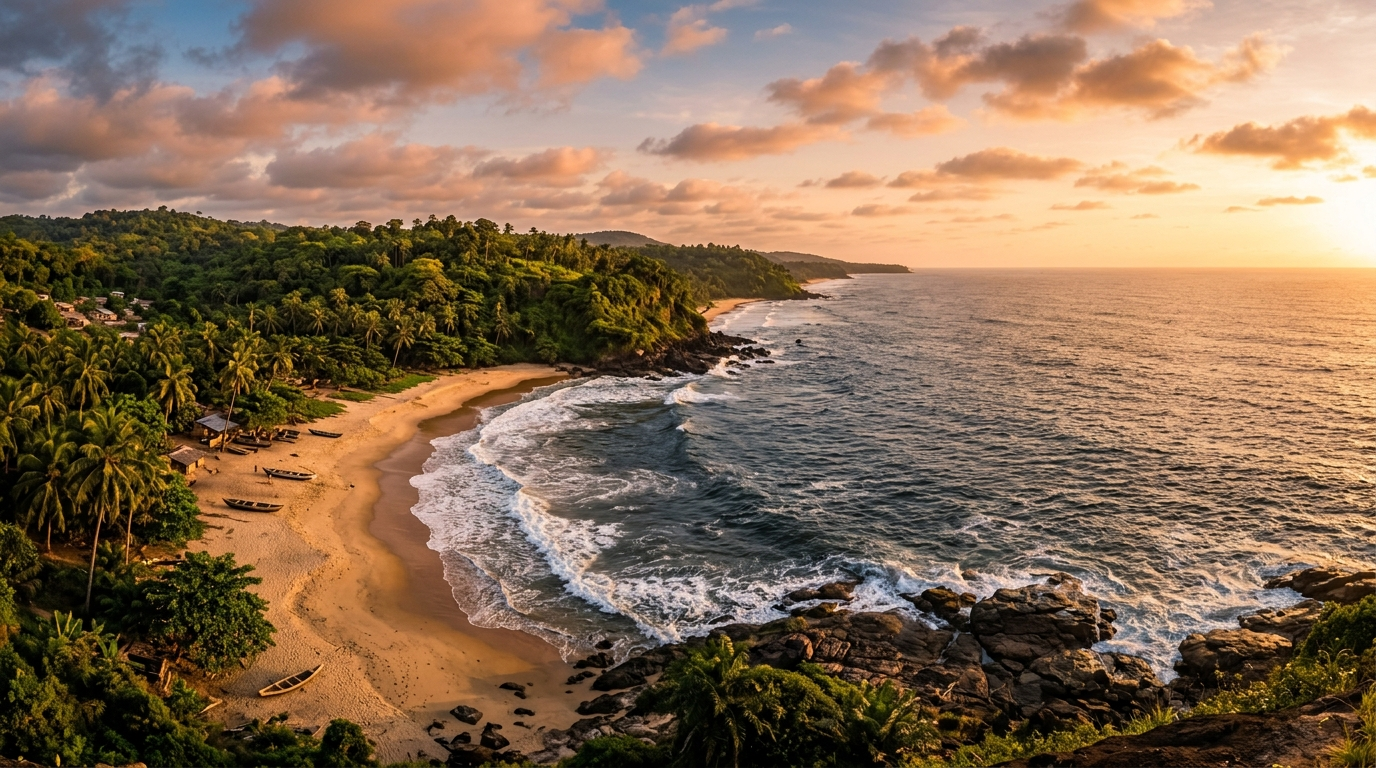
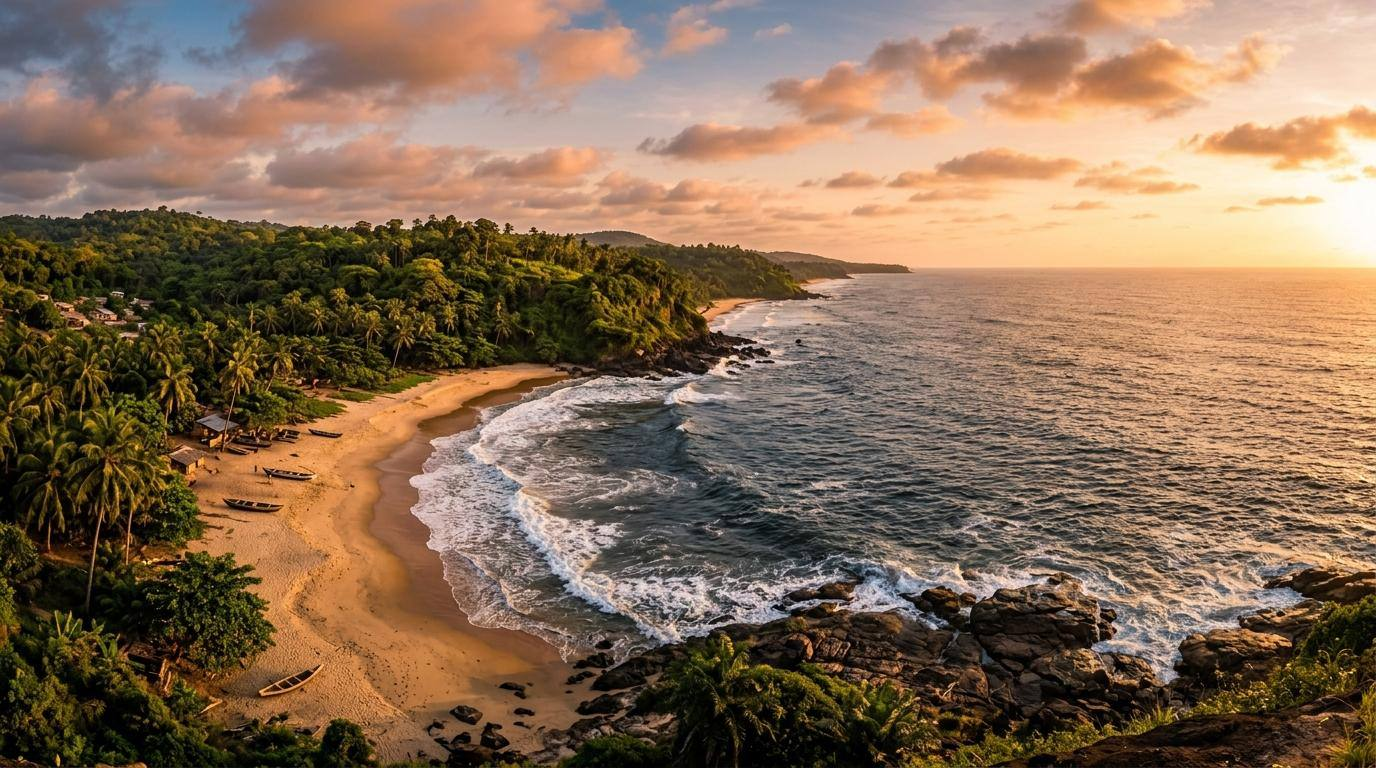
perf(loading): preloader natif immediat, compression images 80%, code splitting et lazy-loading des modals

diff --git a/src/App.jsx b/src/App.jsx
@@ -1,15 +1,9 @@
-import React, { useState, useEffect, useMemo, useRef } from 'react';
+import React, { useState, useEffect, useMemo, useRef, lazy, Suspense } from 'react';
 import Navbar from './components/Navbar';
 import ClientNavbar from './components/ClientNavbar';
 import Dashboard from './components/Dashboard';
 import MapView from './components/MapView';
 import ParcelList from './components/ParcelList';
-import ParcelModal from './components/ParcelModal';
-import ParcelFormModal from './components/ParcelFormModal';
-import KmlImporter from './components/KmlImporter';
-import KmlParcelImporterModal from './components/KmlParcelImporterModal';
-import GeoJsonImporterModal from './components/GeoJsonImporterModal';
-import SupabaseModal from './components/SupabaseModal';
 import AdminLocationHUD from './components/AdminLocationHUD';
 import PwaInstallPrompt from './components/PwaInstallPrompt';
 import { getOceanZoneInfo } from './utils/coastalZones';
@@ -18,7 +12,15 @@ import * as turf from '@turf/turf';
 import PortalSelectionModal from './components/PortalSelectionModal';
 import ClientPinModal from './components/ClientPinModal';
 import AdminLoginModal from './components/AdminLoginModal';
-import AdminSecurityModal from './components/AdminSecurityModal';
+
+// Lazy load secondary modals to drastically accelerate initial loading
+const ParcelModal = lazy(() => import('./components/ParcelModal'));
+const ParcelFormModal = lazy(() => import('./components/ParcelFormModal'));
+const KmlImporter = lazy(() => import('./components/KmlImporter'));
+const KmlParcelImporterModal = lazy(() => import('./components/KmlParcelImporterModal'));
+const GeoJsonImporterModal = lazy(() => import('./components/GeoJsonImporterModal'));
+const SupabaseModal = lazy(() => import('./components/SupabaseModal'));
+const AdminSecurityModal = lazy(() => import('./components/AdminSecurityModal'));
 
 import { DEFAULT_KML_DATA } from './data/defaultConcession';
 import { parseKMLToGeoJSON, extractMainConcessionPolygon, extractSubZones } from './utils/kmlParser';
@@ -748,63 +750,71 @@ export default function App() {
         )}
       </div>
 
-      {/* Selected Parcel Detail Sidebar / Modal — Admin uniquement */}
+      {/* Lazy Loaded Admin Modals & Detail Views */}
       {!isClientRole && (
-        <ParcelModal
-          parcel={selectedParcel}
-          onClose={() => setSelectedParcel(null)}
-          onUpdateParcel={handleUpdateParcel}
-          onDeleteParcel={handleDeleteParcel}
-          isVisitorMode={false}
-        />
-      )}
+        <Suspense fallback={null}>
+          {selectedParcel && (
+            <ParcelModal
+              parcel={selectedParcel}
+              onClose={() => setSelectedParcel(null)}
+              onUpdateParcel={handleUpdateParcel}
+              onDeleteParcel={handleDeleteParcel}
+              isVisitorMode={false}
+            />
+          )}
 
-      {/* Supabase Cloud Sync Modal (Admin only) */}
-      {!isClientRole && (
-        <SupabaseModal
-          isOpen={isSupabaseModalOpen}
-          onClose={() => setIsSupabaseModalOpen(false)}
-          onSyncCloud={handleSyncCloud}
-        />
-      )}
+          {isSupabaseModalOpen && (
+            <SupabaseModal
+              isOpen={isSupabaseModalOpen}
+              onClose={() => setIsSupabaseModalOpen(false)}
+              onSyncCloud={handleSyncCloud}
+            />
+          )}
 
-      {/* Admin Modals */}
-      {!isClientRole && (
-        <>
-          <ParcelFormModal
-            isOpen={isFormOpen}
-            onClose={() => setIsFormOpen(false)}
-            onAddParcel={handleAddParcel}
-            concessionPolygon={concessionPolygon}
-            existingParcels={currentParcels}
-            initialPoints={initialFormPoints}
-          />
+          {isFormOpen && (
+            <ParcelFormModal
+              isOpen={isFormOpen}
+              onClose={() => setIsFormOpen(false)}
+              onAddParcel={handleAddParcel}
+              concessionPolygon={concessionPolygon}
+              existingParcels={currentParcels}
+              initialPoints={initialFormPoints}
+            />
+          )}
 
-          <GeoJsonImporterModal
-            isOpen={isGeoJsonImporterOpen}
-            onClose={() => setIsGeoJsonImporterOpen(false)}
-            onAddParcels={handleAddParcelsFromExternal}
-          />
+          {isGeoJsonImporterOpen && (
+            <GeoJsonImporterModal
+              isOpen={isGeoJsonImporterOpen}
+              onClose={() => setIsGeoJsonImporterOpen(false)}
+              onAddParcels={handleAddParcelsFromExternal}
+            />
+          )}
 
-          <KmlParcelImporterModal
-            isOpen={isKmlParcelImporterOpen}
-            onClose={() => setIsKmlParcelImporterOpen(false)}
-            onAddParcels={handleAddParcelsFromExternal}
-            concessionPolygon={concessionPolygon}
-          />
+          {isKmlParcelImporterOpen && (
+            <KmlParcelImporterModal
+              isOpen={isKmlParcelImporterOpen}
+              onClose={() => setIsKmlParcelImporterOpen(false)}
+              onAddParcels={handleAddParcelsFromExternal}
+              concessionPolygon={concessionPolygon}
+            />
+          )}
 
-          <KmlImporter
-            isOpen={isKmlImporterOpen}
-            onClose={() => setIsKmlImporterOpen(false)}
-            onSetConcession={(poly) => setConcessionPolygon(poly)}
-          />
+          {isKmlImporterOpen && (
+            <KmlImporter
+              isOpen={isKmlImporterOpen}
+              onClose={() => setIsKmlImporterOpen(false)}
+              onSetConcession={(poly) => setConcessionPolygon(poly)}
+            />
+          )}
 
-          <AdminSecurityModal
-            isOpen={isAdminSecurityOpen}
-            onClose={() => setIsAdminSecurityOpen(false)}
-            onLogout={handleLogout}
-          />
-        </>
+          {isAdminSecurityOpen && (
+            <AdminSecurityModal
+              isOpen={isAdminSecurityOpen}
+              onClose={() => setIsAdminSecurityOpen(false)}
+              onLogout={handleLogout}
+            />
+          )}
+        </Suspense>
       )}
 
       {/* PWA Mobile Add to Home Screen Prompt */}

diff --git a/index.html b/index.html
@@ -19,15 +19,41 @@
     <!-- Apple iOS Fullscreen & Standalone Support -->
     <meta name="apple-mobile-web-app-capable" content="yes" />
     <meta name="apple-mobile-web-app-status-bar-style" content="black-translucent" />
-    <!-- Google Fonts: Plus Jakarta Sans & JetBrains Mono -->
+    <!-- Google Fonts: Plus Jakarta Sans & JetBrains Mono (Non-blocking) -->
     <link rel="preconnect" href="https://fonts.googleapis.com">
     <link rel="preconnect" href="https://fonts.gstatic.com" crossorigin>
-    <link href="https://fonts.googleapis.com/css2?family=JetBrains+Mono:wght@400;500;600;700&family=Plus+Jakarta+Sans:wght@300;400;500;600;700;800&display=swap" rel="stylesheet">
+    <link rel="preload" href="https://fonts.googleapis.com/css2?family=JetBrains+Mono:wght@400;500;600;700&family=Plus+Jakarta+Sans:wght@300;400;500;600;700;800&display=swap" as="style" onload="this.onload=null;this.rel='stylesheet'">
+    <noscript>
+      <link href="https://fonts.googleapis.com/css2?family=JetBrains+Mono:wght@400;500;600;700&family=Plus+Jakarta+Sans:wght@300;400;500;600;700;800&display=swap" rel="stylesheet">
+    </noscript>
 
     <title>Concession Manuel Joaquim d'Oliveira | SIG Cadastre</title>
   </head>
-  <body class="bg-slate-900 text-white select-none">
-    <div id="root"></div>
+  <body class="bg-slate-900 text-white select-none m-0 p-0 overflow-hidden">
+    <div id="root">
+      <!-- Instant Native Pre-loader before React Hydration -->
+      <div style="display:flex;flex-direction:column;align-items:center;justify-content:center;height:100dvh;width:100vw;background-color:#0B1120;color:#FFFFFF;font-family:ui-sans-serif,system-ui,-apple-system,sans-serif;text-align:center;padding:24px;box-sizing:border-box;">
+        <div style="width:60px;height:60px;border-radius:18px;background:linear-gradient(135deg,#059669,#0D9488);display:flex;align-items:center;justify-content:center;box-shadow:0 12px 28px rgba(5,150,105,0.4);margin-bottom:20px;border:1px solid rgba(255,255,255,0.2);">
+          <svg width="32" height="32" viewBox="0 0 24 24" fill="none" stroke="#FFFFFF" stroke-width="2.2" stroke-linecap="round" stroke-linejoin="round">
+            <path d="M12 22s8-4 8-10V5l-8-3-8 3v7c0 6 8 10 8 10z"/>
+            <path d="m9 12 2 2 4-4"/>
+          </svg>
+        </div>
+        <h1 style="font-size:16px;font-weight:800;letter-spacing:0.04em;text-transform:uppercase;margin:0 0 6px 0;color:#F8FAFC;">
+          Concession Manuel Joaquim d'Oliveira
+        </h1>
+        <p style="font-size:12px;color:#94A3B8;margin:0 0 28px 0;font-weight:500;">
+          Système d'Information Géographique &bull; Muanda / Kongo Central
+        </p>
+        <div style="display:flex;align-items:center;gap:10px;font-size:11px;color:#34D399;font-weight:600;background:rgba(15,23,42,0.85);padding:8px 16px;border-radius:9999px;border:1px solid rgba(52,211,153,0.3);box-shadow:0 4px 12px rgba(0,0,0,0.25);">
+          <div style="width:13px;height:13px;border:2px solid #34D399;border-top-color:transparent;border-radius:50%;animation:spin-sig 0.8s linear infinite;"></div>
+          <span>Chargement du Système Cadastral...</span>
+        </div>
+      </div>
+      <style>
+        @keyframes spin-sig { to { transform: rotate(360deg); } }
+      </style>
+    </div>
     <script type="module" src="/src/main.jsx"></script>
   </body>
 </html>

diff --git a/src/components/MapView.jsx b/src/components/MapView.jsx
@@ -183,6 +183,44 @@ function LocationFlyToController({ flyToTrigger, userLocation }) {
   return null;
 }
 
+// Watcher for real-time map tile loading status
+function TileLoadingWatcher({ onLoadingChange }) {
+  const map = useMap();
+  useEffect(() => {
+    let pendingTiles = 0;
+    let timer = null;
+
+    const onStart = () => {
+      pendingTiles++;
+      onLoadingChange(true);
+    };
+
+    const onEnd = () => {
+      pendingTiles = Math.max(0, pendingTiles - 1);
+      if (pendingTiles === 0) {
+        if (timer) clearTimeout(timer);
+        timer = setTimeout(() => {
+          onLoadingChange(false);
+        }, 250);
+      }
+    };
+
+    map.on('tileloadstart', onStart);
+    map.on('tileload', onEnd);
+    map.on('tileerror', onEnd);
+    map.on('load', () => onLoadingChange(false));
+
+    return () => {
+      if (timer) clearTimeout(timer);
+      map.off('tileloadstart', onStart);
+      map.off('tileload', onEnd);
+      map.off('tileerror', onEnd);
+    };
+  }, [map, onLoadingChange]);
+
+  return null;
+}
+
 // Professional HUD with Interactive Zoom Percentage Controller & Molette D-Pad
 function ProfessionalGisHud({ onAddPoint, isDrawing, mapType }) {
   const map = useMap();
@@ -395,6 +433,7 @@ export default function MapView({
   const [userLocation, setUserLocation] = useState(null);
   const [sharpnessHD, setSharpnessHD] = useState(true);
   const [showMobileGisMenu, setShowMobileGisMenu] = useState(false);
+  const [isTilesLoading, setIsTilesLoading] = useState(true);
 
   const effectiveUserLocation = externalUserLocation || userLocation;
 
@@ -1042,6 +1081,16 @@ export default function MapView({
         </div>
       )}
 
+      {/* Floating Tile Loading Indicator */}
+      {isTilesLoading && (
+        <div className="absolute top-4 left-1/2 -translate-x-1/2 z-[1000] pointer-events-none animate-in fade-in duration-200">
+          <div className="glass-pill px-3 py-1.5 rounded-full text-[11px] font-sans font-semibold text-emerald-300 flex items-center gap-2 shadow-2xl border border-emerald-500/40">
+            <Loader2 className="w-3.5 h-3.5 animate-spin text-emerald-400" />
+            <span>Chargement des tuiles satellites HD...</span>
+          </div>
+        </div>
+      )}
+
       {/* Main Leaflet Map Container */}
       <MapContainer
         center={defaultCenter}
@@ -1053,6 +1102,7 @@ export default function MapView({
         className="w-full h-full flex-1 z-0"
         scrollWheelZoom={true}
       >
+        <TileLoadingWatcher onLoadingChange={setIsTilesLoading} />
         <MapBoundsController
           concessionPolygon={concessionPolygon}
           subZones={subZones}

diff --git a/vite.config.js b/vite.config.js
@@ -9,4 +9,19 @@ export default defineConfig({
     react(),
     tailwindcss()
   ],
+  build: {
+    chunkSizeWarningLimit: 1200,
+    rollupOptions: {
+      output: {
+        manualChunks(id) {
+          if (id.includes('node_modules')) {
+            if (id.includes('leaflet')) return 'vendor-leaflet';
+            if (id.includes('@turf')) return 'vendor-turf';
+            if (id.includes('@supabase')) return 'vendor-supabase';
+            if (id.includes('lucide-react')) return 'vendor-icons';
+          }
+        }
+      }
+    }
+  }
 })
